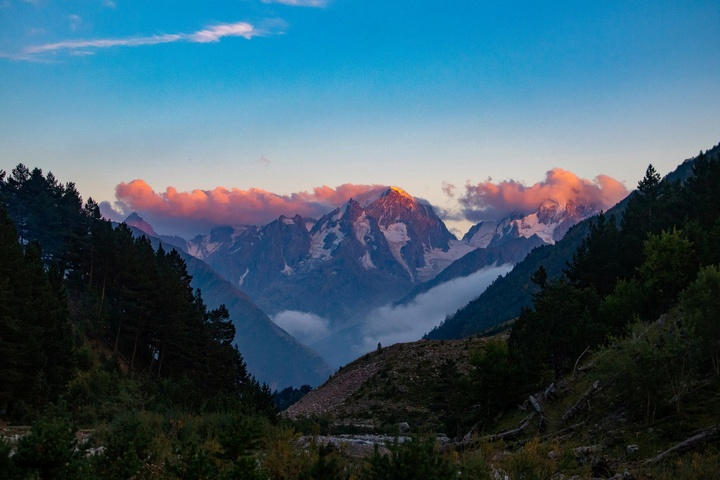
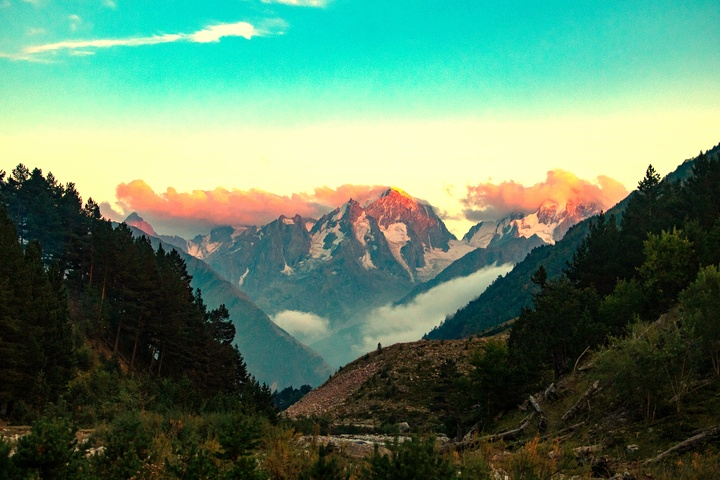
Реализована загрузка изображений через проводник

diff --git a/src/main/java/org/example/photoredactor/MainController.java b/src/main/java/org/example/photoredactor/MainController.java
@@ -8,6 +8,7 @@ import javafx.scene.control.Slider;
 import javafx.scene.control.TextField;
 import javafx.scene.image.Image;
 import javafx.scene.image.ImageView;
+import javafx.stage.FileChooser;
 import org.example.photoredactor.WB.TempSetting;
 import org.example.photoredactor.WB.TintSetting;
 import org.example.photoredactor.presence.detail.ClaritySetting;
@@ -78,6 +79,7 @@ public class MainController {
     }
 
     @FXML private ImageView imageView;
+    private String curImageFileName;
 
     private static String SLIDER_STYLE_CLASS = "slider";
     private static String TEXT_FIELD_STYLE_CLASS = "text-input text-field";
@@ -115,15 +117,23 @@ public class MainController {
 
     @FXML
     private void changeImage(Setting setting, double coef) {
-        System.loadLibrary(Core.NATIVE_LIBRARY_NAME);
-        Mat image = imread("src/main/resources/org/example/photoredactor/IMG_6374.jpg");
+        Mat curImage = imread(curImageFileName);
+        Helper.changeImage(curImage, setting, coef);
 
-        Helper.changeImage(image, setting, coef);
+        imwrite("src/main/resources/org/example/photoredactor/test.jpg", curImage);
 
-        imwrite("src/main/resources/org/example/photoredactor/IMG_6374_new.jpg", image);
-
-        File file = new File("src/main/resources/org/example/photoredactor/IMG_6374_new.jpg");
+        File file = new File("src/main/resources/org/example/photoredactor/test.jpg");
         Image img = new Image(file.toURI().toString());
+        imageView.setImage(img);
+    }
+
+    // Пока не дружит с пробелами и русскими символами
+    @FXML
+    private void openFiles() {
+        FileChooser fileChooser = new FileChooser();
+        File file = fileChooser.showOpenDialog(imageView.getScene().getWindow());
+        Image img = new Image(file.toURI().toString());
+        curImageFileName = file.toString().replace('\\', '/');
         imageView.setImage(img);
     }
 
